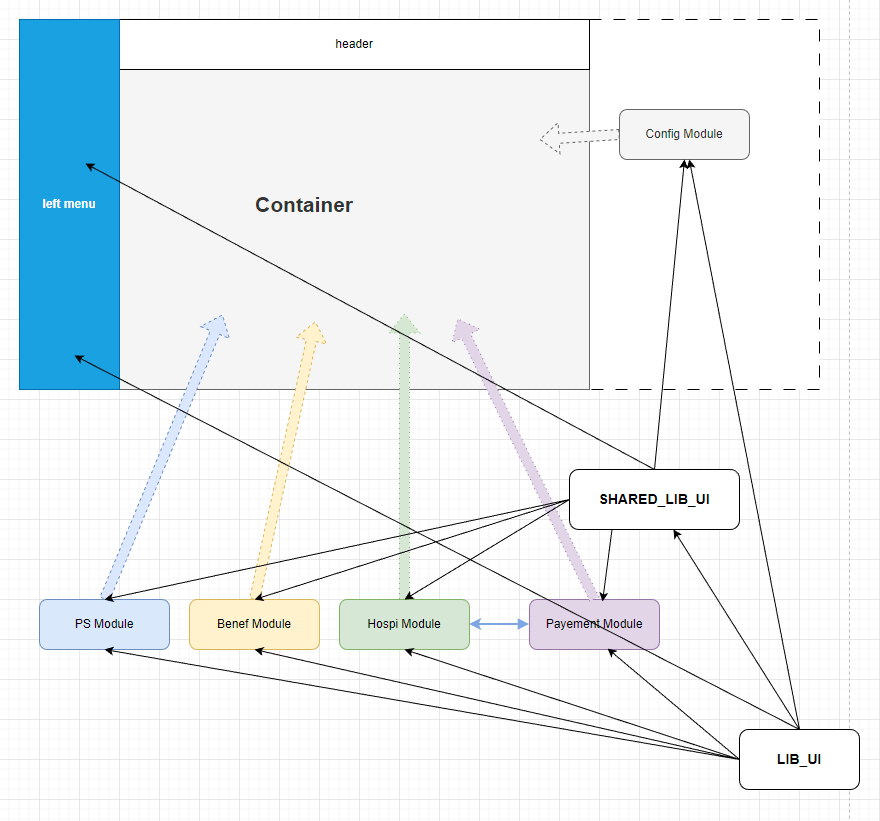
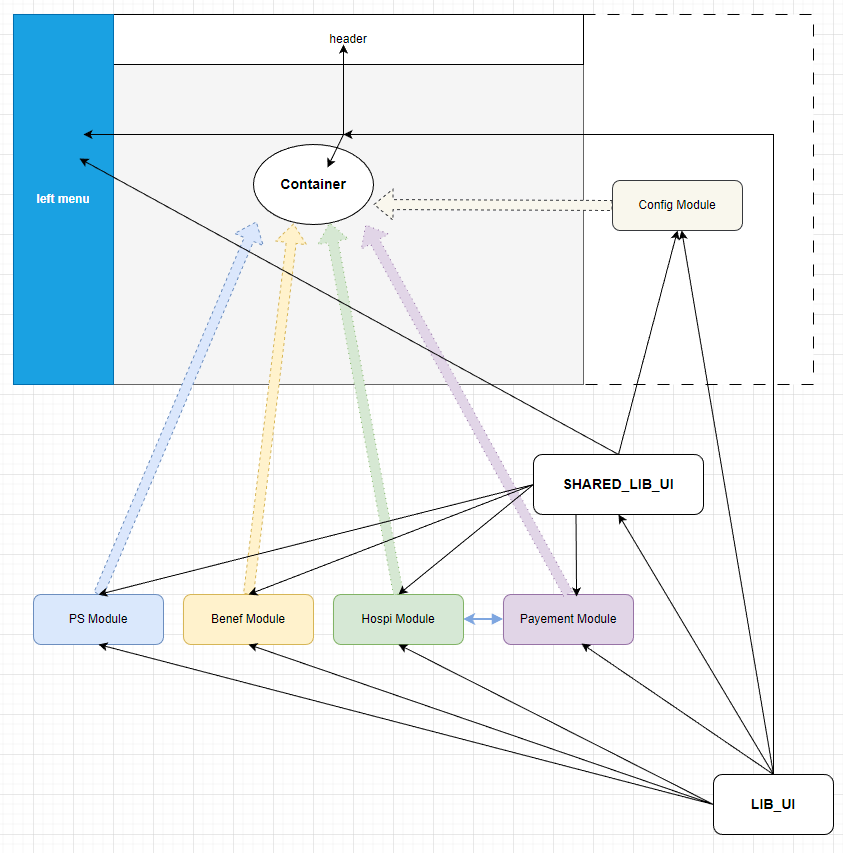
fix doc

diff --git a/README.md b/README.md
@@ -4,28 +4,62 @@ Purpose of this FE container is to consume micro-frontend modules
 like PS-ui, Droits-Beneficiaire-ui, Hospi-ui (Factures, Intritables and RocEnLigne), Payement-ui (Paiement and Virement), also in this container is located the CONFIG module (which is of general purpose)  and show in SPA
 
 ## Project
-Host UI unites all rest of modules with single access, there have two external remotes which serve common libraries like 
-**Lib UI** which contains  
-* React
-* Redux
-* Redux Toolkit
-* React Final form
-
-and **Shared Lib UI** which contains
-* Store
-* Services for API
-* Theme
-* Assets with fonts, icons and pictures
-* Lib with common components, widgets and etc.
-
 
 ### Structure
+Host UI unites all rest of modules (**Configurations, PS, Droa Beneftiaire, Payments and Facture**) with single access. 
 
-####  REST API used in HOST UI
-![API-flow.png](documentation/API-flow.png)
 
-####  HOST UI
-![UsageModules.png](documentation/UsageModules.png)
+####  HOST UI Micro-FrontEnd Architecture
+
+Modules bellow are remote Apps wich are distributed trough Webpack Module Federation, they exist in their own independent repos and containers
+  * **PS**
+  * **Beneftiaire**
+  * **Payments**
+  * **Facture**
+
+There have more two external remotes which serve common libraries used in every instance like **Host** and rest of **Modules**. 
+  * **Lib**
+  * **Shared Lib**
+
+
+![Structure.png](documentation%2FStructure.png)
+
+###  Configurations module 
+
+Except **Configurations** module all rest of modules as mentioned above **are separated**. But this one, since it affects all the others, is included in this repo for now. Anyway **all modules has identical structure** 
+#### Module Structure
+
+![img.png](documentation/ConfigurationModule-FolderStructure.png)
+
+
+![ModulTemplate.png](documentation%2FModulTemplate.png)
+
+We use Dynamic Remotes from Webpack Module Federation to load asynchronous modules and libraries  
+https://webpack.js.org/concepts/module-federation/#promise-based-dynamic-remotes
+
+####  Services (REST API) used in HOST UI
+For fetching data from backend API we use Redux Toolkit and especially **RTK Query** https://redux-toolkit.js.org/rtk-query/overview 
+that give us flexibility and a lot of goodness (like cache management & etc.)
+All of this is wrapped with Store and API slices(in remote Shared_Lib_UI). 
+
+Every single module which arrived, become with his API services and just inject his endpoint in Store, like that we have data access with full setup of actions, reducers under the hood of wrapper
+
+> **Note** 
+> _Usual used nomenclatures and labels data arrives from Aggregator module (BE API) - URL described in_ **"refs": "${APIURL_REFS}"**,
+
+...
+
+
+
+
+###  Libraries for rendering, state and form management 
+are used remote from **Lib_UI** 
+
+> **Note**
+> Important thing is that Lib UI contains specific versions of React, React-Dom and Redux arround all modules  
+
+
+
 ## Getting started
 
 in project directories you can find **[package.json](package.json)** inside are specified all necessary dependencies for project and scripts for **dev** and **prod**
@@ -40,8 +74,75 @@ npm i
 npm start
 ```
 
- 
-Also in file **[webpack.dev.js](webpack.dev.js)** respectively **[webpack.prod.js](webpack.prod.js)** in configuration section of **ModuleFederationPlugin** You can see all shared declaration of used libraries.
+
+
+###  Configuration
+For development needs in **[modules.js](public%2Fmodules.js)** we have specification for all remote allocations of modules and API Services in use
+
+	"remoteApps": {
+		"lib_ui": "http://localhost:8038/remoteEntry.js",
+		"shared_lib_ui": "http://localhost:8039/remoteEntry.js",
+		"ps_ui": "http://localhost:8034/remoteEntry.js",
+		...
+	},
+	"apiUrls": {
+		"beneficiaire": "http://XXX.XXX.XXX.XXX:XXXX/api/v1",
+		...
+	}
+
+Basically in prod we use templates from [public_template](public_template) \ **[modules.js](public_template%2Fmodules.js)** and replace them with values from container variables
+
+They are used from two instances, ones for Webpack build and second one is dynamic in actual app.
+
+Doing so  we have dynamic URLs for API and remoteApps,
+
+
+    module.exports = {
+        "remoteApps": {
+            "lib_ui": "${REMOTE_LIB_UI}",
+            "shared_lib_ui": "${REMOTE_SHARED_LIB_UI}",
+            "hospi_ui": "${REMOTE_HOSPI}",
+            "payment_ui": "${REMOTE_PAYEMENTS}",
+            "ps_ui": "${REMOTE_PS}",
+            "benef_ui": "${REMOTE_BENEF}",
+    
+        },
+        "apiUrls": {
+            "beneficiaire": "${APIURL_BENEFICIAIRE}",
+            "configurations": "${APIURL_CONFIGURATIONS}",
+            "downloadFacture": "${APIURL_DOWNLOAD_FACTURE}",
+            "downloadSelAndIdb": "${APIURL_DOWNLOAD_SEL_IDB}",
+            "entities": "${APIURL_ENTITIES}",
+            "factures": "${APIURL_FACTURES}",
+            "fluxFactures": "${APIURL_FLUX_FACTURES}",
+            "intraitables": "${APIURL_INTRAITABLES}",
+            "paiements": "${APIURL_PAIEMENTS}",
+            "ps": "${APIURL_PS}",
+            "selAndIdb": "${APIURL_SEL_IDB}",
+            "fluxSelAndIdb": "${APIURL_FLUX_SEL_IDB}",
+            "virements": "${APIURL_VIREMENTS}",
+            "refs": "${APIURL_REFS}",
+            "referentiels": "${APIURL_REFERENTIELS}"
+        }
+    };
+
+
+
+>*!!! Like so, we have compilat with variable urls for api, and you can copy dist folder manually at another container and just by changing variable configuration you will have new instance consuming specifisied REST APIs, that can be very handy for versioning for example*
+
+>**Note**
+>### You must be sure that used remote modules are alive
+>* lib_ui
+>* shared_lib_ui
+>* hospi_ui (Factures, Intritables and RocEnLigne)
+>* payment_ui (Paiement and Virement)
+>* ps_ui
+>* benef_ui
+
+
+
+
+In file **[webpack.dev.js](webpack.dev.js)** respectively **[webpack.prod.js](webpack.prod.js)** in configuration section of **ModuleFederationPlugin** You can see all shared declaration of used libraries.
 
             shared: {
                 "react": {
@@ -78,56 +179,6 @@ Also in file **[webpack.dev.js](webpack.dev.js)** respectively **[webpack.prod.j
                 }
             },
 
-For development needs in **[modules.js](public%2Fmodules.js)** we have specification for all hosting allocations of remote API Services in use
-
-	"remoteApps": {
-		"lib_ui": "http://localhost:8038/remoteEntry.js",
-		"shared_lib_ui": "http://localhost:8039/remoteEntry.js",
-		"ps_ui": "http://localhost:8034/remoteEntry.js",
-		...
-	},
-	"apiUrls": {
-		"beneficiaire": "http://XXX.XXX.XXX.XXX:XXXX/api/v1",
-		...
-	}
-
-Basically in prod we use templates in **[modules.js](public_template%2Fmodules.js)** and replace them with container variables 
-
-    module.exports = {
-        "remoteApps": {
-            "lib_ui": "${REMOTE_LIB_UI}",
-            "shared_lib_ui": "${REMOTE_SHARED_LIB_UI}",
-            "hospi_ui": "${REMOTE_HOSPI}",
-            "payment_ui": "${REMOTE_PAYEMENTS}",
-            "ps_ui": "${REMOTE_PS}",
-            "benef_ui": "${REMOTE_BENEF}",
-    
-        },
-        "apiUrls": {
-            "beneficiaire": "${APIURL_BENEFICIAIRE}",
-            "configurations": "${APIURL_CONFIGURATIONS}",
-            "downloadFacture": "${APIURL_DOWNLOAD_FACTURE}",
-            "downloadSelAndIdb": "${APIURL_DOWNLOAD_SEL_IDB}",
-            "entities": "${APIURL_ENTITIES}",
-            "factures": "${APIURL_FACTURES}",
-            "fluxFactures": "${APIURL_FLUX_FACTURES}",
-            "intraitables": "${APIURL_INTRAITABLES}",
-            "paiements": "${APIURL_PAIEMENTS}",
-            "ps": "${APIURL_PS}",
-            "selAndIdb": "${APIURL_SEL_IDB}",
-            "fluxSelAndIdb": "${APIURL_FLUX_SEL_IDB}",
-            "virements": "${APIURL_VIREMENTS}",
-            "refs": "${APIURL_REFS}",
-            "referentiels": "${APIURL_REFERENTIELS}"
-        }
-    };
-
-
-they are used from two instances, one for building app from webpack
-and another one is actual app. Like that we have dynamic URLs for API and remoteApps,
-
->*!!! you can copy dist folder manually at another container and just by changing variable configuration you will have new instance consuming specifisied REST APIs, that can be very useful for versioning for example*
-
 
 ## The following technologies are in use:
 
@@ -138,11 +189,61 @@ and another one is actual app. Like that we have dynamic URLs for API and remote
 * React Final form
 * MUI 5 (material design)
 
->### You have to be sure that used remote modules are alive and served* lib_ui
->* shared_lib_ui
->* hospi_ui (Factures, Intritables and RocEnLigne)
->* payment_ui (Paiement and Virement)
->* ps_ui
->* benef_ui
 
+**Lib UI** which contains  
+* React, Redux, Redux Toolkit && React Final form
+  * /react, /react-dom, /react-router-dom, /prop-types
+  * /redux, /react-redux, /redux-thunk
+  * /@reduxjs-toolkit - *(@reduxjs/toolkit/query/react)*, /reduxjs-toolkit - *(@reduxjs/toolkit/)* 
+  * /react-final-form, /final-form-arrays, /react-final-form-listeners
+* /react-imask, /react-number-format
+
+and **Shared Lib UI** expose
+* /Store - *State management wrapper over* **Redux** 
+* /services - *Wrapper for rest API over* **Redux Toolkit**
+  * baseApi
+  * refsApi
+  * referentielApi
+* /Theme - Based on **MUI** (MaterialUI 5)
+* /assets - *fonts, icons and pictures*
+* /Lib - *common components, utils and widgets
+  * **Modals** 
+    * *confirmations*
+      * ConfirmNir
+      * ConfirmFactureAnule,
+        ConfirmFactureRecyclage,
+        ConfirmFactureRejete
+    * *messages*
+      * MoreThan200Results
+      * MoreThan10000ResultsForDownload
+      * NoGridResultsAlert
+      * NoSearchResultsAlert
+  * **Utils**
+    * *validators*
+      * calcCleFromNir
+      * allowSearch,
+    * *convertors*
+      * dateConvertNaissance, dateConvertNaissanceRAW
+      * IntlDateWithHHMM, convertDate, isValidDate
+      * currencyFormatter
+      * numberFormatter,
+    * *statuses ({label, color})* 
+      * virementStatus
+      * rocStatus
+      * paiementsStatus
+      * statusesRIB
+      * facturesStatus
+      * benefStatuses
+    * *grid wrapper*
+      * MainGrid, SubGrid,
+      * ActesGrid, actesGridColumns
+  * **Components & commons**
+    * usePrevious
+    * Drawer, DrawerHeader
+    * VirtLink
+    * AutoCompleteField
+    * PanelNIR
+    * AppBar,StyledCard
+    * Accordion, AccordionSummary, AccordionDetails
+    * TextMaskCustom, MaskedInput,
 
